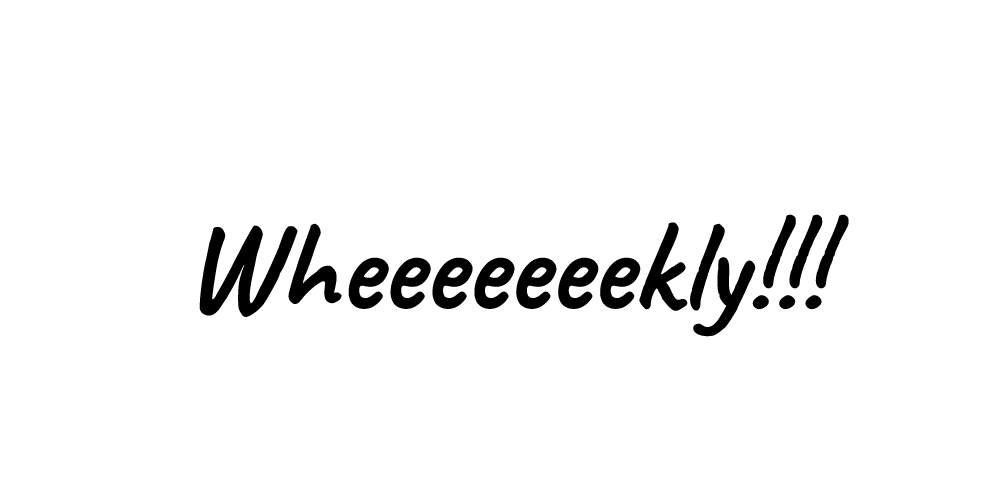
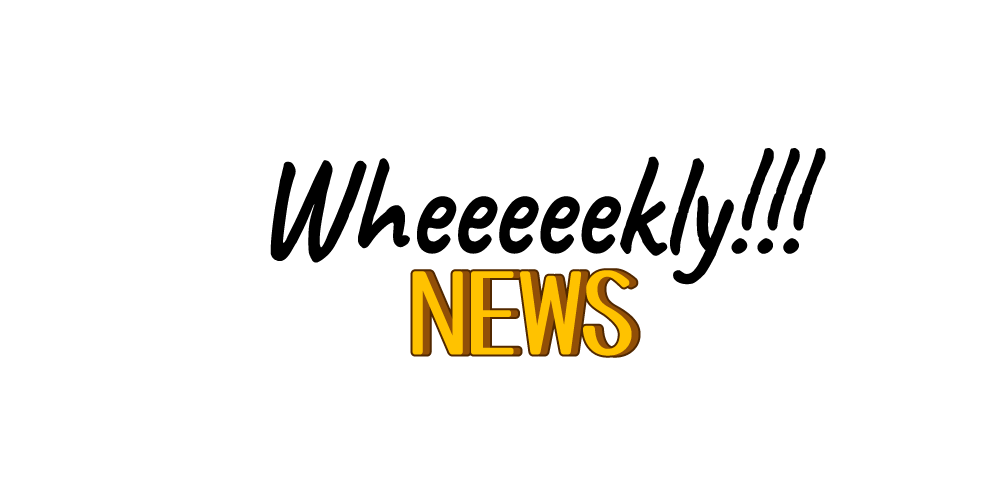
Updated Title image

Changed region(s): [[0.186, 0.2923, 0.868, 0.7599]]

diff --git a/code/style.css b/code/style.css
@@ -9,27 +9,38 @@ body {
 
 
 .header {
+  width: 100%;
+  padding: 5px;
+  background: grey;
+}
+
+.container {
   display: flex;
   justify-content: space-between;
-  align-items: center;
-  width: 100%;
-  background: grey;
+  max-width: 2000px;
+  height: auto;
+  border: 5px solid green;
 }
 
 .logo {
-  flex-basis: 150px;
-  max-width: 150px;
-  max-height: 150px;
+  max-width: 14%;
+  height: auto;
+  border: 3px solid salmon;
 }
 
 .title {
-  flex-basis: 600px;
-  max-width: 600px;
-  max-height: 200px;
-  background: grey;
+  max-width: 30%;
+  height: auto; 
+  border: 3px solid red;
 }
 
 .navigation {
-  display:flex;
-  background: grey;
+
+  background: white;
+}
+
+.navigation-element {
+  margin-right: 20px;
+  text-decoration: none;
+  
 }

diff --git a/code/index.html b/code/index.html
@@ -16,14 +16,16 @@
 
   <body>
     
-    <header class="header container">
+    <header class="header">
+      <div class="container">
       <img class="logo" src="/assets/logo.png" alt="Guinea pig logo">
       <img class="title" src="/assets/title.png" alt="Wheeeekly title image">
       <nav class="navigation">
-        <a class="nav link 1" href="">One</a>
-        <a class="nav link 2" href="">Two</a>
-        <a class="nav link 3" href="">Three</a>
+        <a class="navigation-element" href="#">Topics</a>
+        <a class="navigation-element" href="#">Shop</a>
+        <a class="navigation-element" href="#">Rescues</a>
       </nav>
+      </div>
     </header>
 
     <section class="big-news">
